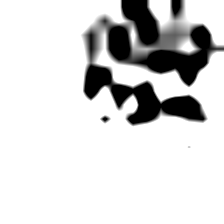
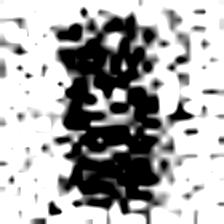
exp: Configuretion for exp 12

diff --git a/freqmark_vanilla.py b/freqmark_vanilla.py
@@ -15,7 +15,6 @@ import warnings
 import torchvision
 import random
 from tqdm import tqdm
-import timm
 warnings.filterwarnings('ignore')
 
 class Denormalize(transforms.Normalize):
@@ -55,10 +54,9 @@ class Params:
 
         # --- FreqMark Core Parameters ---
         self.message_bits = 48
-        # self.feature_dim = 384 # DINOv2 small
-        self.feature_dim = 192 # DINOv2 small
+        self.feature_dim = 384 # DINOv2 small
         self.margin = 1.0
-        self.grid_size = 28
+        # self.grid_size = 14
         # self.num_patches = self.grid_size*self.grid_size
         self.mask_percentage = 0.3
         self.num_masks = 1
@@ -92,12 +90,7 @@ class FreqMark:
 
         # Initialize networks
         self.vae = AutoencoderKL.from_pretrained("stabilityai/stable-diffusion-2-1", subfolder="vae").to(self.args.device)
-        # self.image_encoder = torch.hub.load('facebookresearch/dinov2', 'dinov2_vits14').to(self.args.device)
-        self.image_encoder = timm.create_model(
-            'convnext_tiny',
-            pretrained=True,
-            features_only=True,
-        ).to(self.args.device)
+        self.image_encoder = torch.hub.load('facebookresearch/dinov2', 'dinov2_vits14').to(self.args.device)
         # Freeze all networks
         for param in self.vae.parameters():
             param.requires_grad = False
@@ -106,18 +99,13 @@ class FreqMark:
         
         # Pre-define direction vectors
         # self.direction_vectors = torch.load('./sensitive_vec.pt')
-        # self.direction_vectors = torch.randn(self.args.feature_dim)
-        # self.direction_vectors = F.normalize(self.direction_vectors, p=2, dim=0)
-        # self.direction_vectors = self.direction_vectors.unsqueeze(0).to(self.args.device)
-        # torch.save(self.direction_vectors, './random_vec.pt')
-        self.direction_vectors = torch.load('./random_vec.pt').to(self.args.device)
+        self.direction_vectors = torch.randn(self.args.feature_dim)
+        self.direction_vectors = F.normalize(self.direction_vectors, p=2, dim=0)
+        self.direction_vectors = self.direction_vectors.unsqueeze(0).to(self.args.device)
+        torch.save(self.direction_vectors, './random_vec.pt')
     
         self.mu = self.args.margin      # Hinge loss margin
-        # self.num_patches = (self.args.dino_image_size // 14) ** 2
-        # self.secret_key = torch.randint(0, 2, (1, self.num_patches, 1), device=self.args.device) * 2 - 1 # {-1, 1}
-        # self.secret_key = torch.randint(0, 2, (1, args.grid_size*args.grid_size, 1), device=self.args.device) * 2 - 1 # {-1, 1}
-        # torch.save(self.secret_key, './secret_key.pt')
-        self.secret_key = torch.load('./secret_key.pt').to(self.args.device)
+        self.num_patches = (self.args.dino_image_size // 14) ** 2
 
 
     # def _init_direction_vectors(self) -> torch.Tensor:
@@ -239,73 +227,26 @@ class FreqMark:
             
             masked = watermarked_image * mask + (1 - mask) * image
 
-            # inpaint
-            latent_mask = F.interpolate(mask, size=(64, 64), mode="bilinear", align_corners=False)
-            
-            std_val_0 = random.uniform(self.args.eps0_std[0], self.args.eps0_std[1])
-            eps0 = torch.randn_like(perturbed_latent) * std_val_0
-
-            perturbed_latent_1 = (perturbed_latent + eps0)*latent_mask + perturbed_latent*(1-latent_mask)
-
-            watermarked_image_1 = self.vae.decode(perturbed_latent_1).sample
-            masked_1 = (watermarked_image_1 + 1) / 2
-            masked_1 = masked_1 * mask + (1 - mask) * image ################################
-
             # Compute losses
             image = F.interpolate(original, size=(img_size, img_size), mode="bilinear", align_corners=False)
             mask = F.interpolate(mask, size=(img_size, img_size), mode="bilinear", align_corners=False)
             masked = F.interpolate(masked, size=(img_size, img_size), mode="bilinear", align_corners=False)
-            masked_1 = F.interpolate(masked_1, size=(img_size, img_size), mode="bilinear", align_corners=False)
-            # masked_2 = F.interpolate(masked_2, size=(img_size, img_size), mode="bilinear", align_corners=False)
-            # masked_3 = F.interpolate(masked_3, size=(img_size, img_size), mode="bilinear", align_corners=False)
+            # masked_1 = F.interpolate(masked_1, size=(img_size, img_size), mode="bilinear", align_corners=False)
             watermarked_image = F.interpolate(watermarked_image, size=(img_size, img_size), mode="bilinear", align_corners=False)
             
             watermarked_image = norm_dino(watermarked_image)
             masked = norm_dino(masked)
-            masked_1 = norm_dino(masked_1)
 
             loss_m = self._mask_loss(masked, mask)
             loss_d = self._dice_loss(masked, mask)
-            loss_m1 = self._mask_loss(masked_1, mask)
-            loss_d1 = self._dice_loss(masked_1, mask)
-
-            k = self.args.dino_image_size//self.args.grid_size
-            gt_mask_patch = F.avg_pool2d(mask, kernel_size=k, stride=k).view(1, self.args.grid_size*self.args.grid_size, 1)
-
-            # features = self.image_encoder.get_intermediate_layers(watermarked_image)[0]
-            features = self.image_encoder(watermarked_image)[1] # [B, 384, 14, 14]
-            B, C, H, W = features.shape
-            features = features.permute(0, 2, 3, 1).view(B, H * W, C)
-            dot_products = torch.matmul(features, self.direction_vectors.T)
-            loss_auth = self._auth_loss(dot_products, self.secret_key, gt_mask_patch)
-            
-            # features_1 = self.image_encoder.get_intermediate_layers(masked_1)[0]
-            features_1 = self.image_encoder(masked_1)[1]
-            B, C, H, W = features_1.shape
-            features_1 = features_1.permute(0, 2, 3, 1).view(B, H * W, C)
-            dot_products_1 = torch.matmul(features_1, self.direction_vectors.T)
-            loss_auth_1 = self._auth_loss(dot_products_1, self.secret_key, gt_mask_patch)
 
             watermarked_image = denorm_dino(watermarked_image)
-            masked = denorm_dino(masked)
-            masked_1 = denorm_dino(masked_1)
 
             loss_psnr = self._psnr_loss(watermarked_image, image)
             loss_lpips = self._lpips_loss(watermarked_image, image)
 
-            if step < 200:
-                auth_loss_weight = 1.0
-                shape_loss_weight = 0.0
-            else:  # Stage 2: Key Embedding
-                auth_loss_weight = 1.0
-                shape_loss_weight = 1.0
-
-            # auth_loss_weight = 1.0
-            # shape_loss_weight = 1.0
-
             # Combined loss (Equation 10 from paper)
-            total_loss = auth_loss_weight * (loss_auth + loss_auth_1) + \
-                         shape_loss_weight * (loss_m + loss_m1 + loss_d + loss_d1) + \
+            total_loss = loss_m + \
                          self.args.lambda_p * loss_psnr + \
                          self.args.lambda_i * loss_lpips
             
@@ -316,8 +257,6 @@ class FreqMark:
                 psnr_val = self._compute_psnr(watermarked_image, image)
                 print(f"Step {step+1}, Loss: {total_loss.item():.4f}, PSNR: {psnr_val:.2f}")
                 print(f"Mask Loss: {loss_m.item():.4f}, DICE Loss: {loss_d.item():.4f}")
-                print(f"Mask1 Loss: {(loss_m1).item():.4f}, DICE1 Loss: {loss_d1.item():.4f}")
-                print(f"Auth Loss: {(loss_auth).item():.4f}, Auth1 Loss: {loss_auth_1.item():.4f}")
                 print(f"PSNR Loss: {loss_psnr.item():.4f}, LPIPS Loss: {loss_lpips.item():.4f}")
 
         # Final watermarked image
@@ -344,17 +283,14 @@ class FreqMark:
             # Extract features using image encoder
             # features = self.image_encoder(watermarked_image) # [1, 256, 384]
             watermarked_image = norm_dino(watermarked_image)
-            # features = self.image_encoder.get_intermediate_layers(watermarked_image)[0] # [1, 256, 384]
-            features = self.image_encoder(watermarked_image)[1]
-            B, C, H, W = features.shape
-            features = features.permute(0, 2, 3, 1).view(B, H * W, C)
+            features = self.image_encoder.get_intermediate_layers(watermarked_image)[0] # [1, 256, 384]
+            
             # Compute dot products with direction vectors
             dot_products = torch.matmul(features, self.direction_vectors.T) # [1, 256, 384]*[1, 384, 256] -> [1, 256, 1]
-            agreement_scores = dot_products * self.secret_key
 
             B = dot_products.shape[0]
             H = W = int(dot_products.shape[1] ** 0.5)
-            grid = agreement_scores.view(B, H, W).unsqueeze(0) # [1, 256, 1] -> [1, 1, 16, 16]
+            grid = dot_products.view(B, H, W).unsqueeze(0) # [1, 256, 1] -> [1, 1, 16, 16]
             grid = F.interpolate(grid, size=self.args.dino_image_size, mode='bilinear', align_corners=False)
         return grid
     
@@ -379,15 +315,11 @@ class FreqMark:
         #                                size=(self.args.dino_image_size, self.args.dino_image_size), 
         #                                mode="bilinear", align_corners=False)
 
-        # features = self.image_encoder.get_intermediate_layers(watermarked_image)[0] # [B, Num_Patches, Feature_Dim]
-        features = self.image_encoder(watermarked_image)[1]
-        B, C, H, W = features.shape
-        features = features.permute(0, 2, 3, 1).view(B, H * W, C)
+        features = self.image_encoder.get_intermediate_layers(watermarked_image)[0] # [B, Num_Patches, Feature_Dim]
         dot_products = torch.matmul(features, self.direction_vectors.T)
-        agreement_scores = dot_products * self.secret_key
         B = dot_products.shape[0]
         H = W = int(dot_products.shape[1] ** 0.5)
-        grid = agreement_scores.view(B, H, W).unsqueeze(0)
+        grid = dot_products.view(B, H, W).unsqueeze(0)
         # grid = dot_products.view(self.args.grid_size, self.args.grid_size).unsqueeze(0).unsqueeze(0) # [1, 256, 1] -> [1, 1, 14, 14]
         grid = F.interpolate(grid, size=self.args.dino_image_size, mode='bilinear', align_corners=False) # [B, Num_Patches, Feature_Dim]*[B, Feature_Dim, 1] = [B, Num_Patches, 1]
         loss = F.binary_cross_entropy_with_logits(grid, gt_mask)
@@ -414,19 +346,15 @@ class FreqMark:
         return 20 * np.log10(1.0 / np.sqrt(mse))
     
     def _dice_loss(self, watermarked_image, gt_mask, smooth=1e-5):
-        # image_for_dino = F.interpolate(watermarked_image, 
-        #                                size=(self.args.dino_image_size, self.args.dino_image_size), 
-        #                                mode="bilinear", align_corners=False)
+        image_for_dino = F.interpolate(watermarked_image, 
+                                       size=(self.args.dino_image_size, self.args.dino_image_size), 
+                                       mode="bilinear", align_corners=False)
 
-        # features = self.image_encoder.get_intermediate_layers(image_for_dino)[0] # [B, Num_Patches, Feature_Dim]
-        features = self.image_encoder(watermarked_image)[1]
-        B, C, H, W = features.shape
-        features = features.permute(0, 2, 3, 1).view(B, H * W, C)
+        features = self.image_encoder.get_intermediate_layers(image_for_dino)[0] # [B, Num_Patches, Feature_Dim]
         dot_products = torch.matmul(features, self.direction_vectors.T)
-        agreement_scores = dot_products * self.secret_key
         B = dot_products.shape[0]
         H = W = int(dot_products.shape[1] ** 0.5)
-        grid = agreement_scores.view(B, H, W).unsqueeze(0)
+        grid = dot_products.view(B, H, W).unsqueeze(0)
         # grid = dot_products.view(self.args.grid_size, self.args.grid_size).unsqueeze(0).unsqueeze(0) # [1, 256, 1] -> [1, 1, 14, 14]
         grid = F.interpolate(grid, size=self.args.dino_image_size, mode='bilinear', align_corners=False) # [B, Num_Patches, Feature_Dim]*[B, Feature_Dim, 1] = [B, Num_Patches, 1]
         
